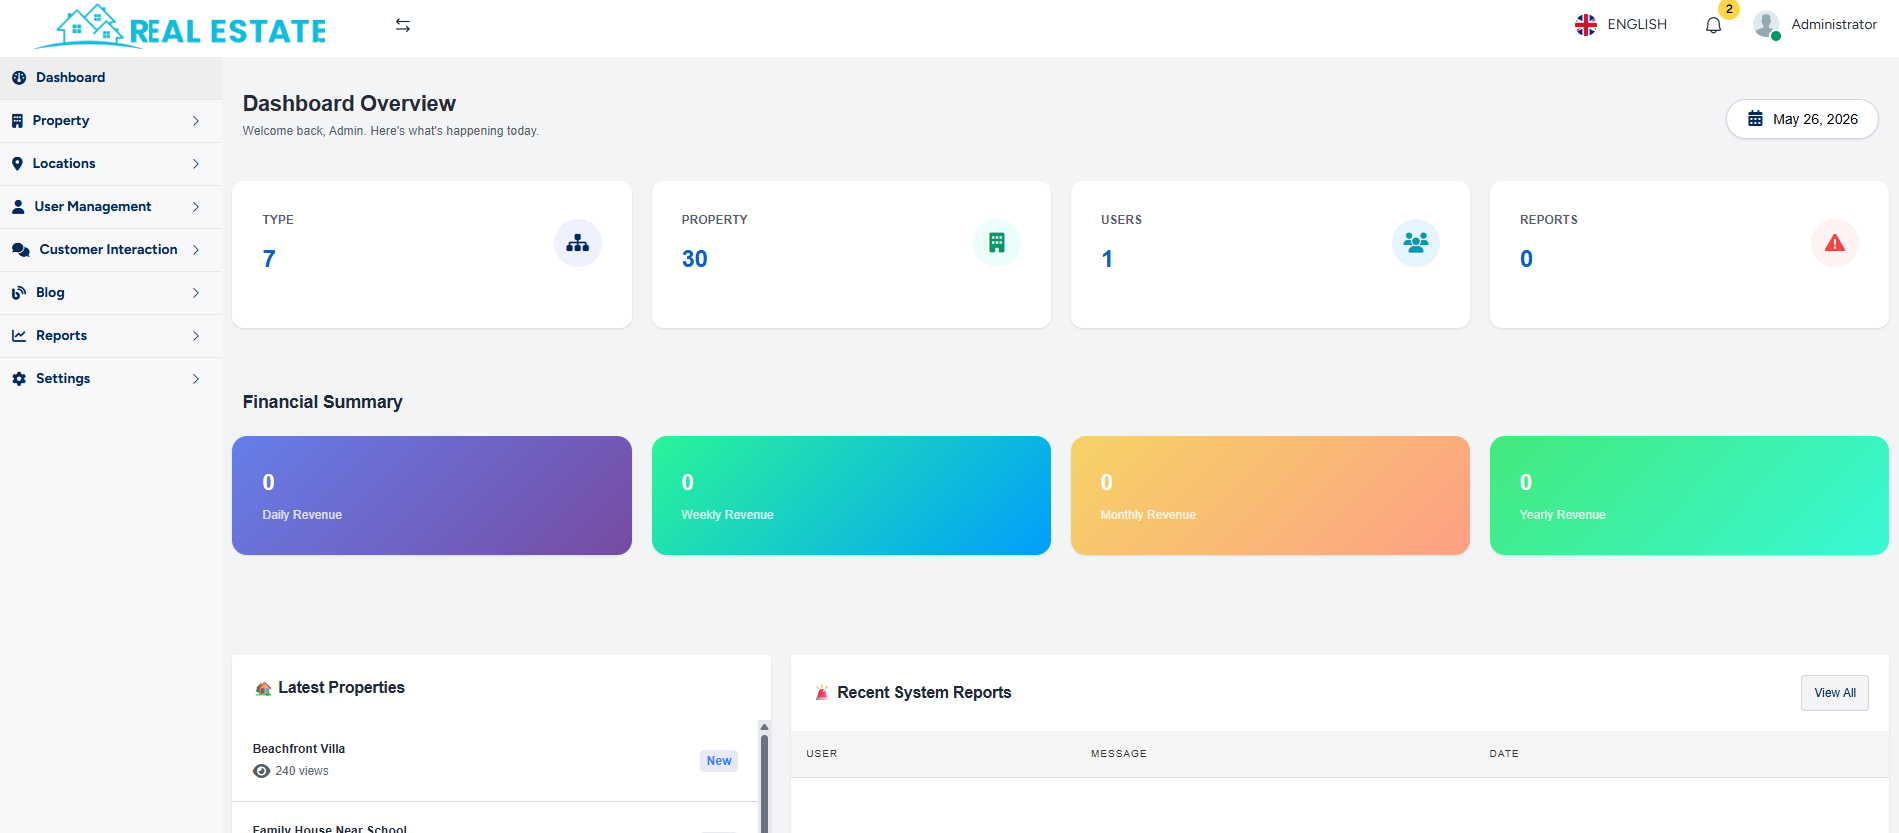
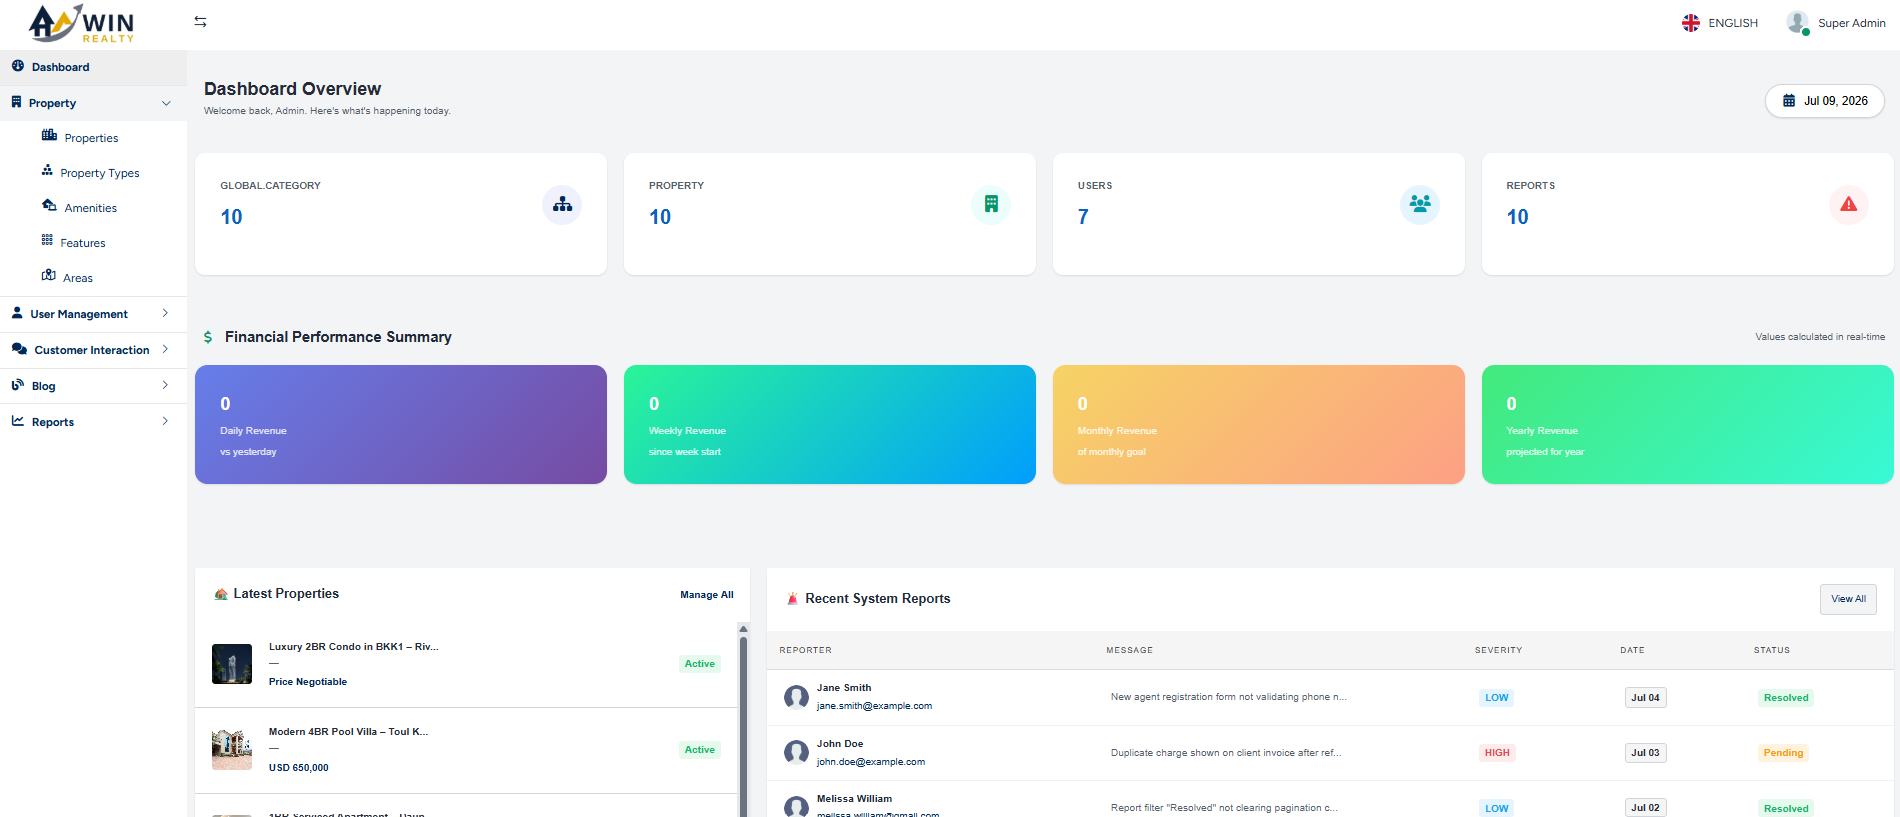
update

diff --git a/src/utils/data.ts b/src/utils/data.ts
@@ -127,21 +127,22 @@ export const projects = [
     title: 'Real Estate',
     category: 'Full-Stack App',
     subcategory: 'Property listing platform',
-    desc: 'A full-stack property listing platform for the Cambodian market buyers and renters can browse verified listings, filter by location, type, and price, and connect with agents through a built-in contact system, backed by a feature-rich admin dashboard.',
-    overview: `Real Estate is a full-stack property listing platform built for the Cambodian market, connecting buyers, renters, and agents through a clean, searchable web interface. The platform covers the full lifecycle of a property listing from creation and verification to discovery and inquiry.
-      On the public side, visitors land on a hero page with a location and property-type search bar, giving instant access to 2,000+ verified listings. They can browse by property category Residential, Office, Land, Industrial, House, Commercial, and Apartment each presented with dedicated category pages. The property listings page offers advanced filtering by keyword, purpose (sale or rent), property type, location, bedroom count, and price range, with results displayed in grid or list view and sortable by newest.
-      Each property card shows key details at a glance: price, address, bed and bath count, square footage, listing status (Sale, Rent, Verified, Pending), and the assigned agent. A contact page with an integrated inquiry form lets visitors reach the team directly, with agent contact details and a 24-hour response guarantee.
-      Authentication is handled through a clean sign-in and sign-up flow, giving users access to saved listings and personalized features once logged in.
-      The admin dashboard is the operational backbone of the platform. It provides a real-time overview of property types (7), total listings (30), registered users, and system reports. A financial summary tracks daily, weekly, monthly, and yearly revenue. Admins can manage properties, locations, users, customer interactions, blog posts, reports, and platform settings all from a structured sidebar navigation. The latest property activity and system report feed keep admins informed at a glance.
+    desc: 'A full-stack property listing platform for the Cambodian market — buyers and renters can search verified listings by location, type, and price, and connect directly with agents, backed by a feature-rich admin dashboard.',
+    overview: `Real Estate is a full-stack property listing platform built for the Cambodian market, connecting buyers, renters, and agents through a clean, searchable web interface. The platform covers the full lifecycle of a listing — from creation and verification to discovery and inquiry.
+      Visitors land on a hero page with a location and property-type search bar, giving instant access to 2,000+ verified listings. Properties are organized into seven dedicated categories — Residential, Office, Land, Industrial, House, Commercial, and Apartment — each with its own browsing page. The listings page adds advanced filtering by keyword, purpose (sale or rent), property type, location, bedroom count, and price range, with results shown in grid or list view and sortable by newest.
+      Each property card surfaces the key details at a glance: price, address, bed and bath count, square footage, listing status (Sale, Rent, Verified, Pending), and the assigned agent. A contact page with an integrated inquiry form connects visitors directly to the team, with agent details and a 24-hour response guarantee.
+      Authentication runs through a clean sign-in and sign-up flow, unlocking saved listings and personalized features once logged in.
+      The admin dashboard is the operational backbone of the platform, giving a real-time overview of property types, total listings, registered users, and system reports. A financial summary tracks daily, weekly, monthly, and yearly revenue, and admins manage properties, locations, users, customer interactions, blog posts, reports, and platform settings from a structured sidebar. A live activity feed keeps the team informed at a glance.
       Built with React on the frontend and Laravel powering the backend API, with MySQL as the database and jQuery for interactive UI components.`,
     highlights: [
-      'Built a multi-category property browsing experience covering 7 property types across Cambodian cities',
+      'Built a hero search experience with location and property-type filters surfacing 2,000+ verified listings',
+      'Designed 7 dedicated category pages (Residential, Office, Land, Industrial, House, Commercial, Apartment)',
       'Developed advanced search and filtering by keyword, purpose, type, location, bedrooms, and price range',
       'Implemented property listing cards with status badges (Sale, Rent, Verified, Pending) and agent attribution',
-      'Created a full admin dashboard with property, user, location, blog, revenue, and report management',
-      'Designed a contact and inquiry system with agent details and integrated message form',
+      'Built a full admin dashboard with property, user, location, blog, revenue, and report management',
+      'Designed a contact and inquiry system with agent details and a 24-hour response guarantee',
       'Built authentication flow with sign-in, sign-up, and remember-me functionality',
-      'Optimized database queries with Laravel and MySQL for fast listing retrieval across 30+ properties',
+      'Optimized database queries with Laravel and MySQL for fast listing retrieval at scale',
     ],
     role: 'Full-Stack Developer',
     year: '2026',
